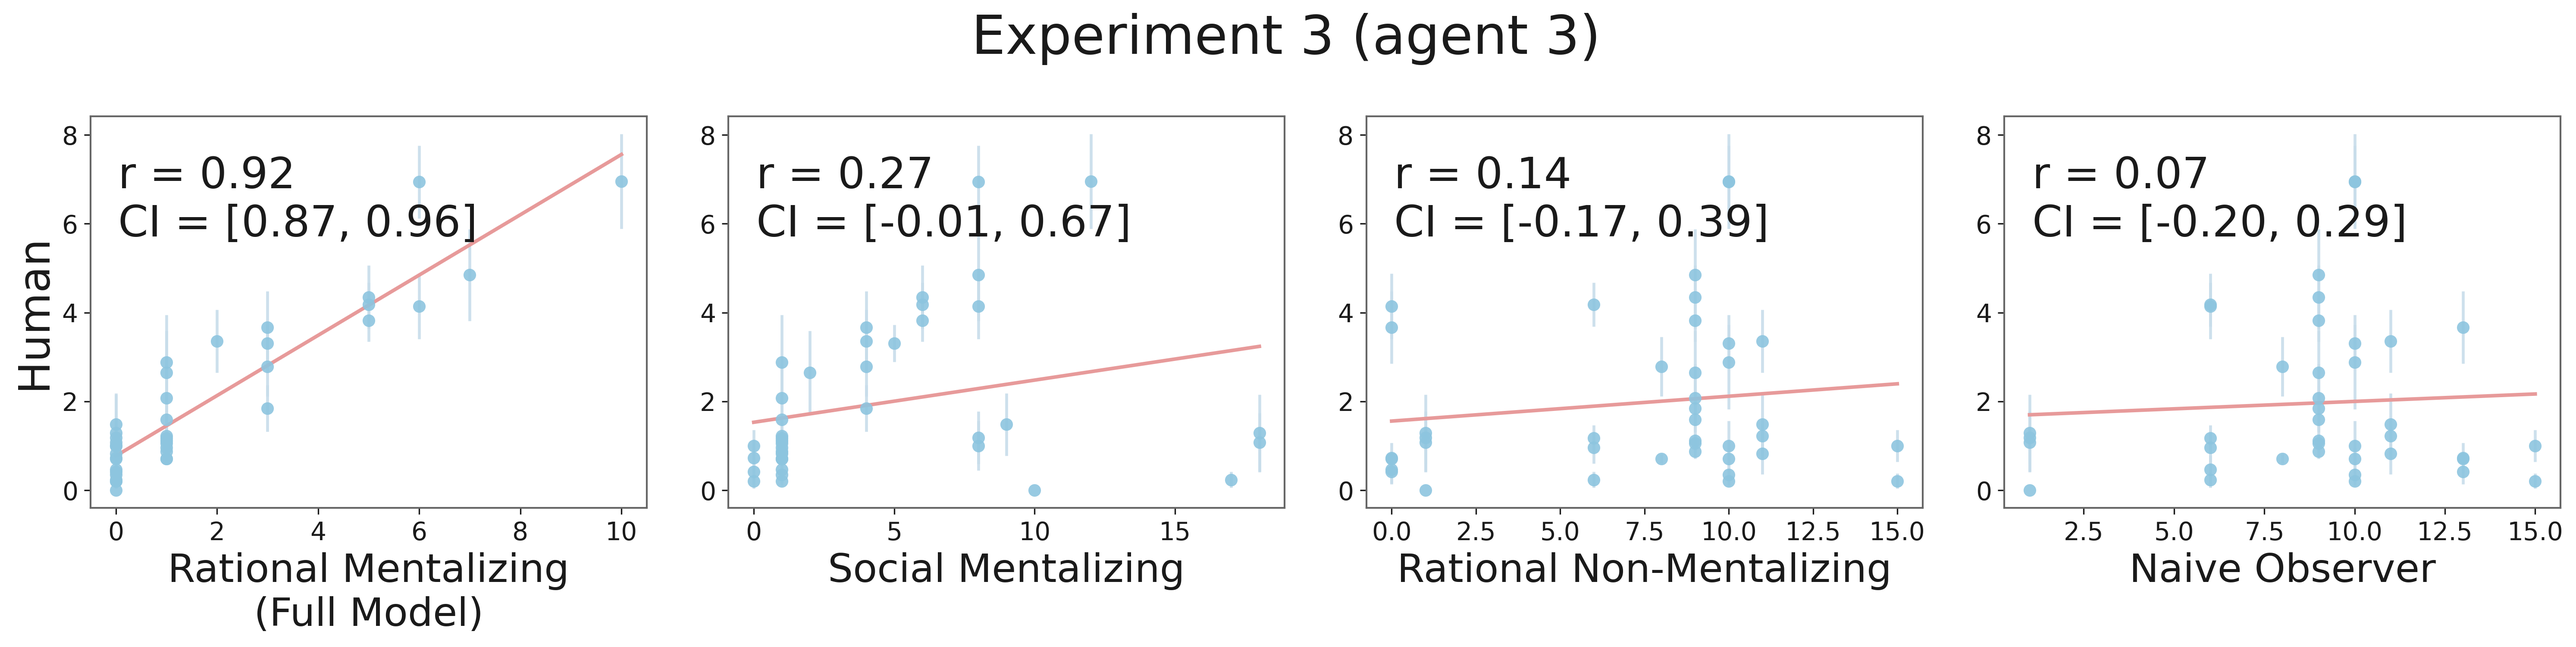
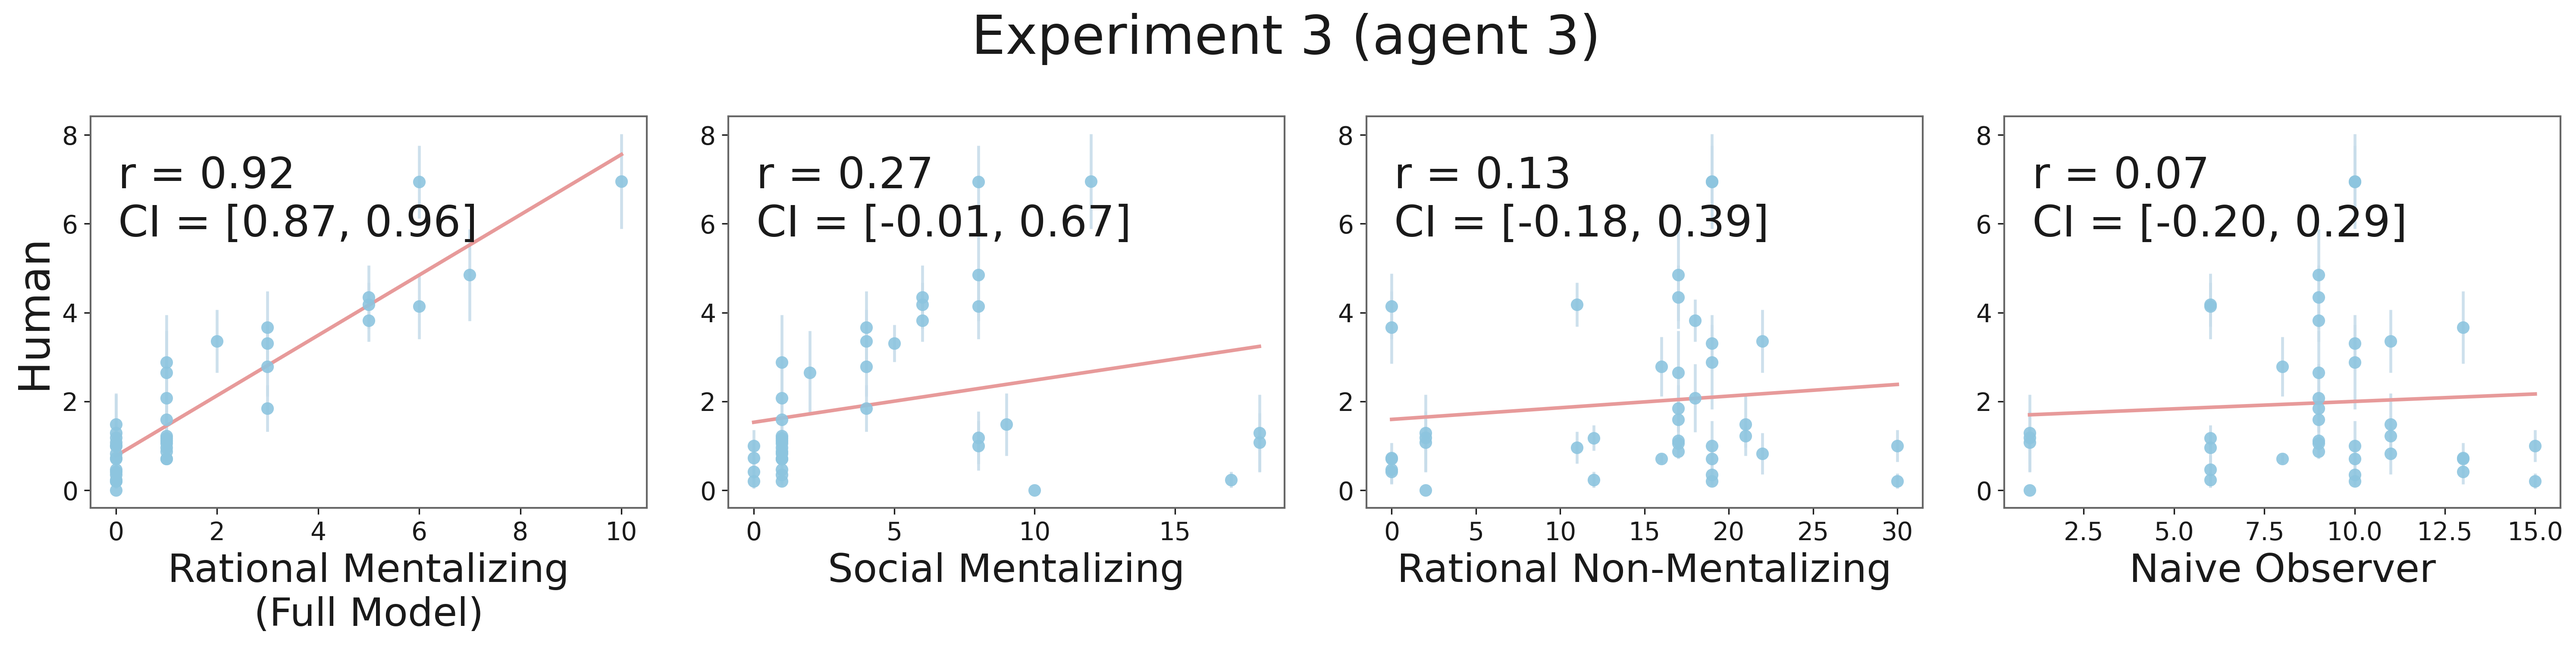
update

diff --git a/data_processing/scripts/export_correlation_csv.py b/data_processing/scripts/export_correlation_csv.py
@@ -262,7 +262,7 @@ with open(workspace_root / "steps_dict_exp3.json") as f:
     model_exp3 = json.load(f)
 with open(workspace_root / "scripts/baselines/exp3/step_dict_naive_exp3.json") as f:
     naive_exp3 = json.load(f)
-with open(workspace_root / "scripts/baselines/exp3/step_dict_nonmentalize_exp3.json") as f:
+with open(workspace_root / "scripts/baselines/exp3/step_dict_nonmentalize_exp3_v2.json") as f:
     nonmentalize_exp3 = json.load(f)
 with open(workspace_root / "scripts/baselines/exp3/step_dict_mentalize_exp3.json") as f:
     mentalize_exp3 = json.load(f)
@@ -287,7 +287,7 @@ with open(workspace_root / "scripts/experiments/experiment_outputs/steps_dict_ex
     model_exp4 = json.load(f)
 with open(workspace_root / "step_dict_naive_exp4.json") as f:
     naive_exp4 = json.load(f)
-with open(workspace_root / "step_dict_nonmentalize_exp4.json") as f:
+with open(workspace_root / "scripts/baselines/exp4/step_dict_nonmentalize_exp4_v2.json") as f:
     nonmentalize_exp4 = json.load(f)
 with open(workspace_root / "step_dict_mentalize_exp4.json") as f:
     mentalize_exp4 = json.load(f)

diff --git a/data_processing/scripts/correlation_exp3_4panel.py b/data_processing/scripts/correlation_exp3_4panel.py
@@ -27,7 +27,7 @@ with open(workspace_root / 'steps_dict_exp3.json') as f:
 with open(workspace_root / 'scripts/baselines/exp3/step_dict_naive_exp3.json') as f:
     baseline_naive = json.load(f)
 
-with open(workspace_root / 'scripts/baselines/exp3/step_dict_nonmentalize_exp3.json') as f:
+with open(workspace_root / 'scripts/baselines/exp3/step_dict_nonmentalize_exp3_v2.json') as f:
     baseline_nonmentalize = json.load(f)
 
 with open(workspace_root / 'scripts/baselines/exp3/step_dict_mentalize_exp3.json') as f:

diff --git a/data_processing/scripts/correlation_exp4_4panel.py b/data_processing/scripts/correlation_exp4_4panel.py
@@ -27,7 +27,7 @@ with open(workspace_root / 'scripts/experiments/experiment_outputs/steps_dict_ex
 with open(workspace_root / 'step_dict_naive_exp4.json') as f:
     baseline_naive = json.load(f)
 
-with open(workspace_root / 'step_dict_nonmentalize_exp4.json') as f:
+with open(workspace_root / 'scripts/baselines/exp4/step_dict_nonmentalize_exp4_v2.json') as f:
     baseline_nonmentalize = json.load(f)
 
 with open(workspace_root / 'step_dict_mentalize_exp4.json') as f:

diff --git a/data_processing/scripts/run_all_correlation_4panel.py b/data_processing/scripts/run_all_correlation_4panel.py
@@ -9,10 +9,8 @@ from pathlib import Path
 
 
 SCRIPT_ORDER = [
-    "correlation_exp1_4panel.py",
-    "correlation_exp2_4panel.py",
-    "correlation_exp3_4panel.py",
-    "correlation_exp4_4panel.py",
+    "correlation_exp12_combined.py",
+    "correlation_exp34_combined.py",
 ]
 
 
